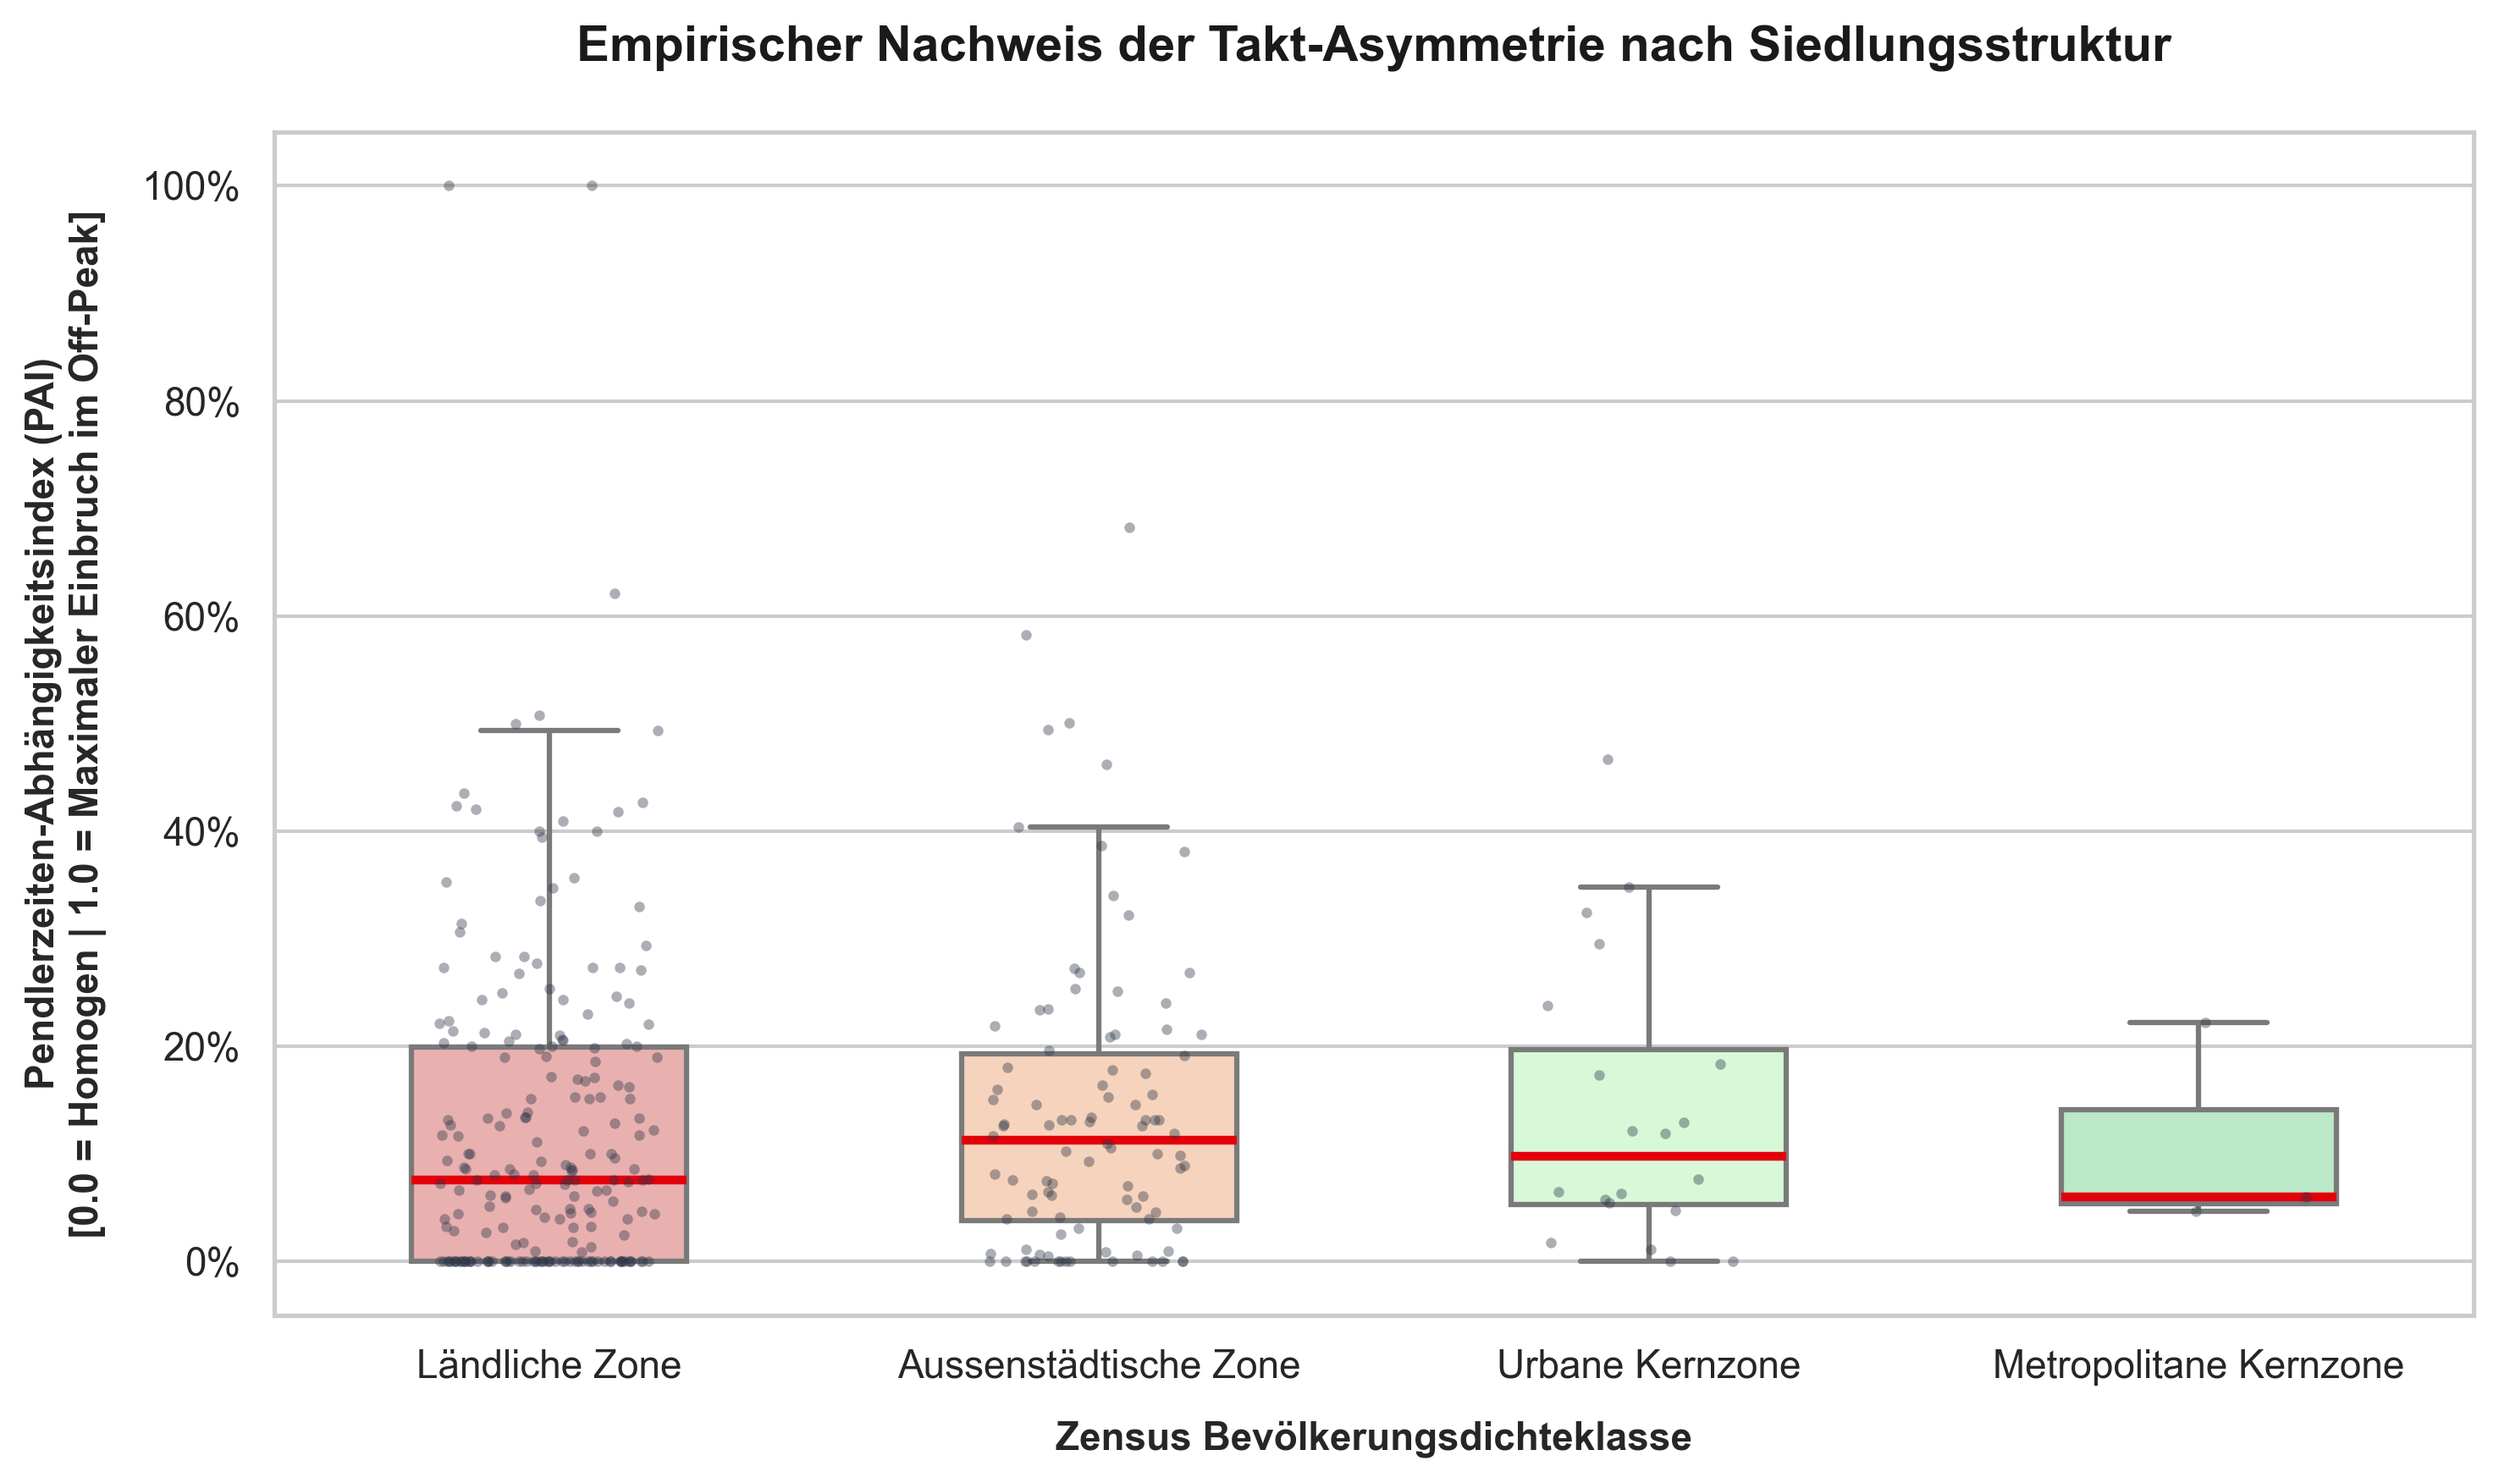
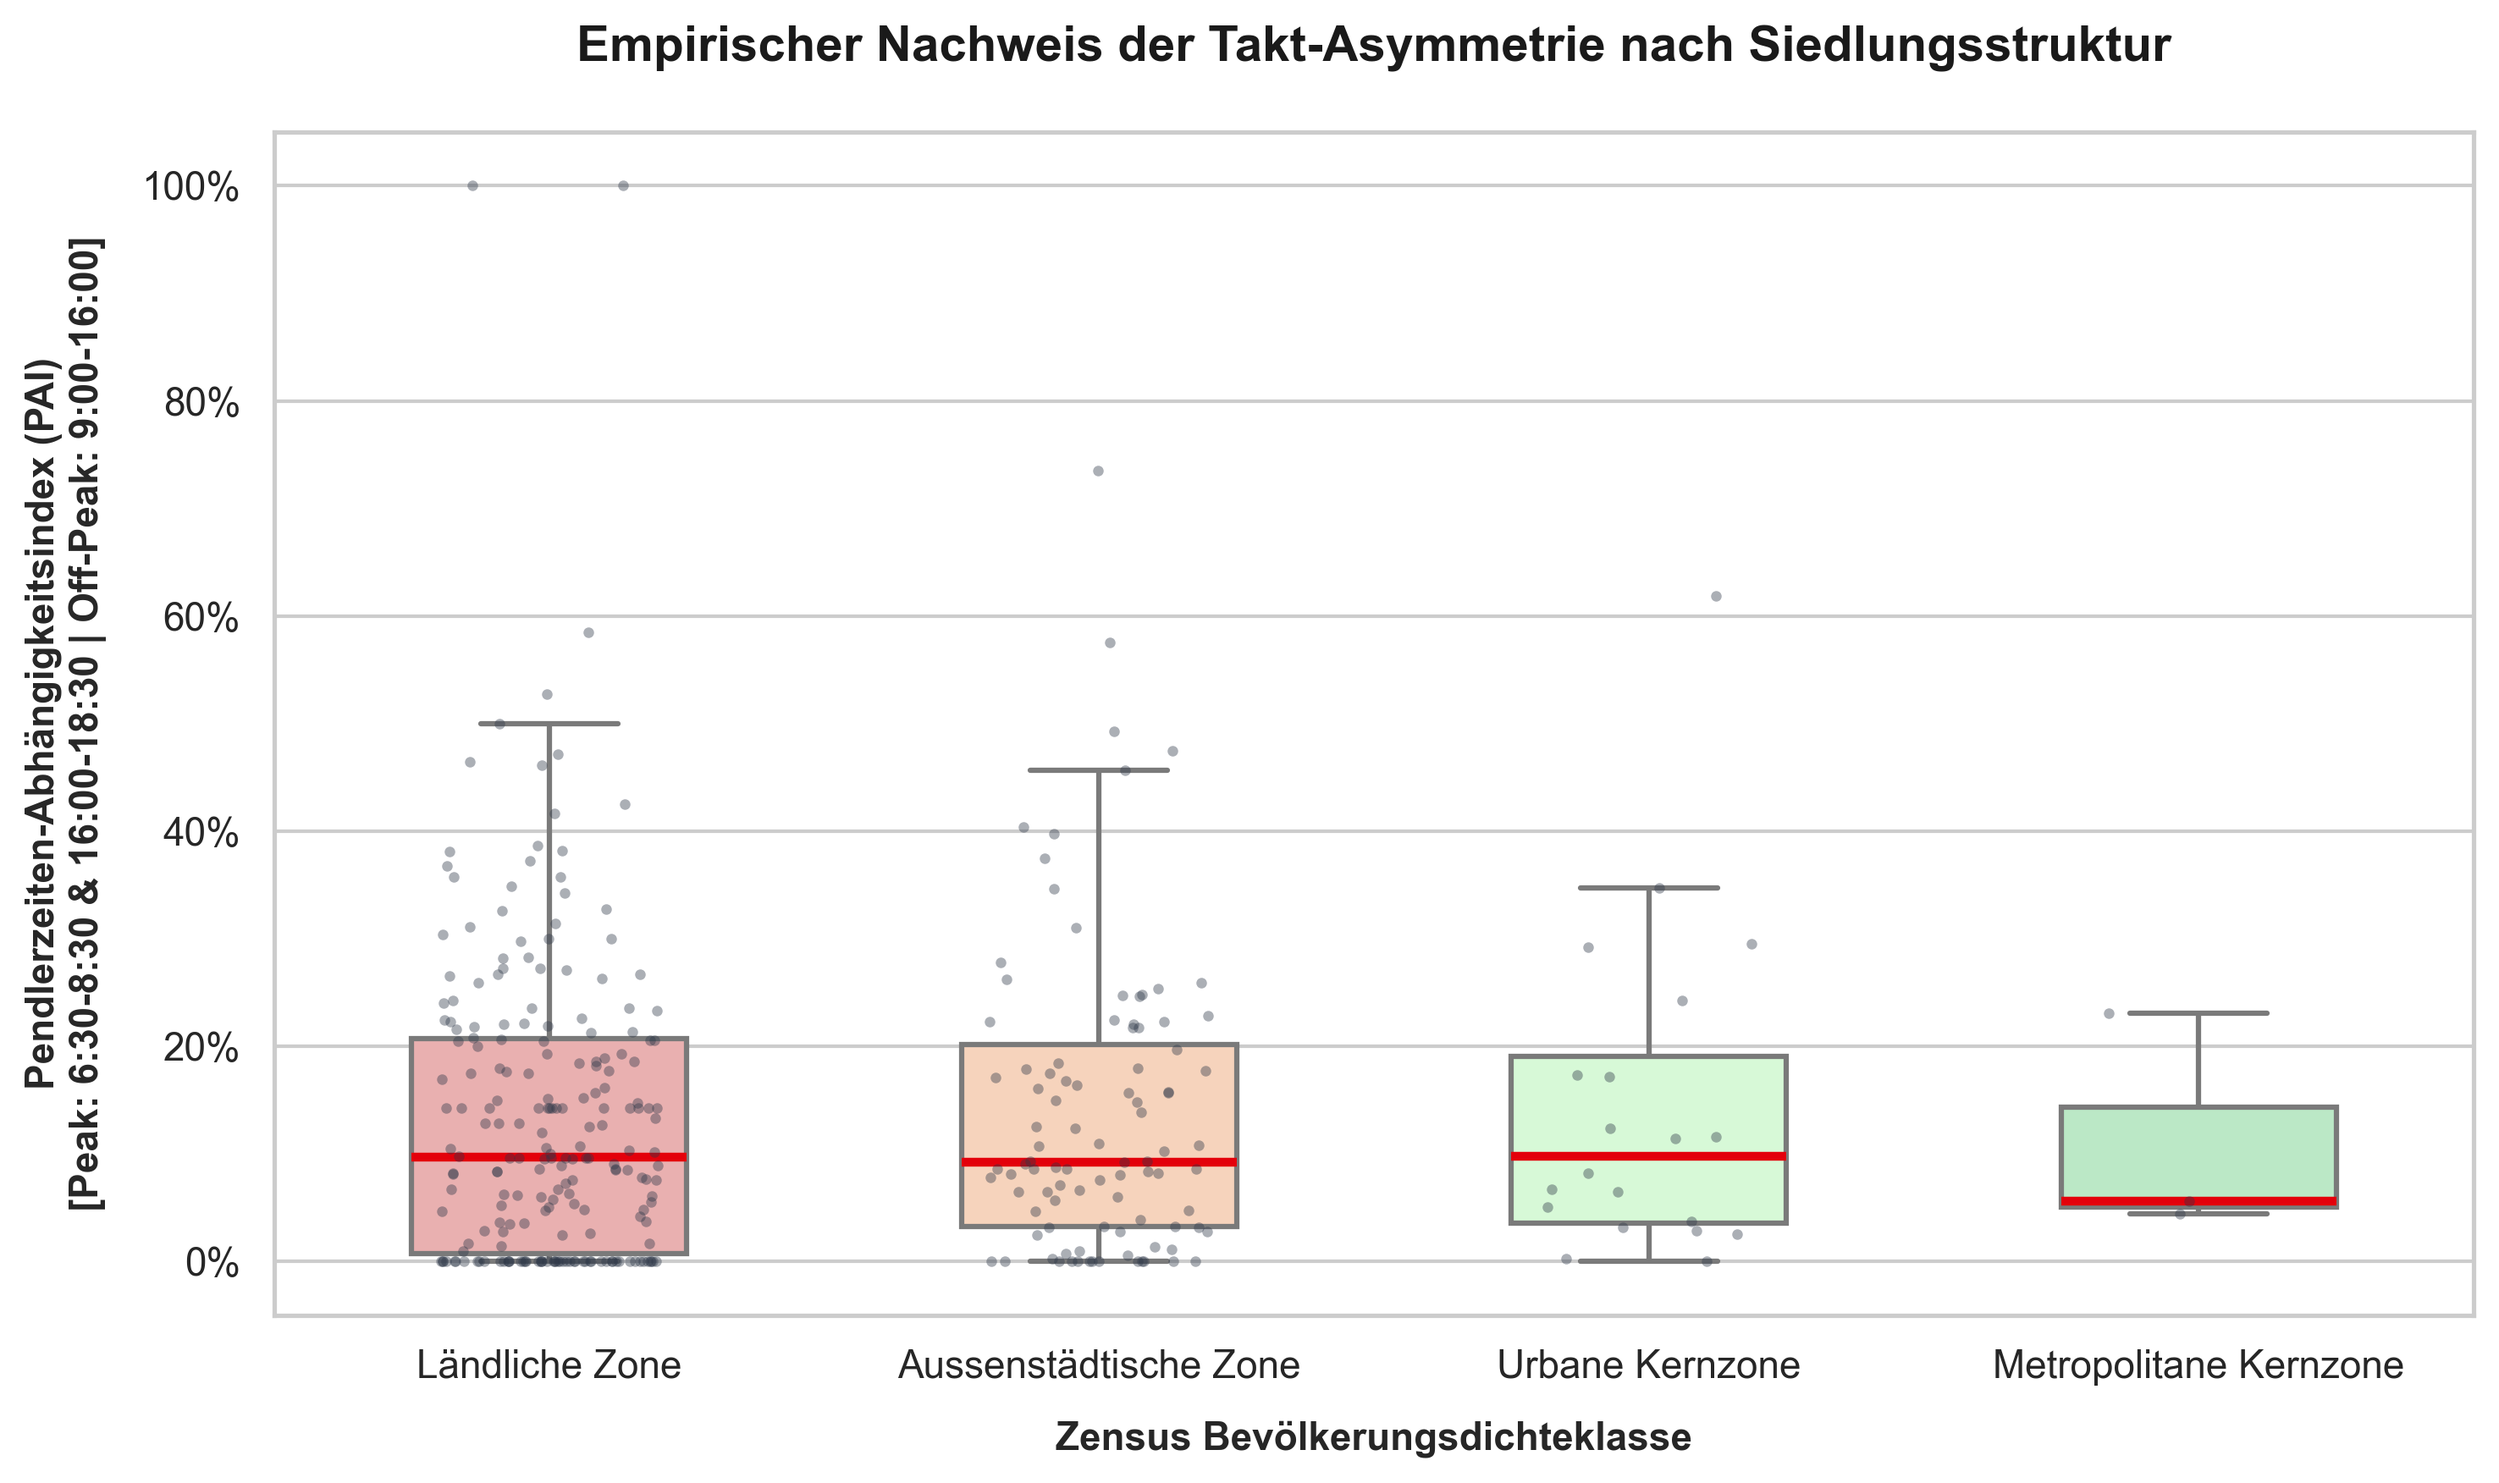
Fixed: Correct Times "Pendlerzeiten

diff --git a/backend/generate_presentation_chart.py b/backend/generate_presentation_chart.py
@@ -1,9 +1,11 @@
 import os
 import matplotlib.pyplot as plt
+import matplotlib.ticker as mtick
 import pandas as pd
 import seaborn as sns
 from dotenv import load_dotenv
 from sqlalchemy import create_engine, text
+from scipy.stats import kruskal
 
 # 1. Umgebung und Datenbankverbindung laden
 load_dotenv()
@@ -31,8 +33,7 @@ query = """
 with engine.connect() as conn:
     df = pd.read_sql_query(text(query), conn)
 
-# 3. Wissenschaftliche Sortierung der X-Achsen-Klassen festlegen
-# Passen Sie die Strings exakt an Ihre Bezeichnungen in der DB an
+# 3. Wissenschaftliche Sortierung (X-Achse) - Exakt wie in deiner DB hinterlegt
 klassen_reihenfolge = [
     "Ländliche Zone",
     "Aussenstädtische Zone",
@@ -40,17 +41,17 @@ klassen_reihenfolge = [
     "Metropolitane Kernzone",
 ]
 
-# Filtern, falls unerwartete Klassenbezeichnungen existieren
+# Filtern auf die korrekten Klassenbezeichnungen aus der DB
 df = df[df["bevoelkerungs_klasse"].isin(klassen_reihenfolge)]
 
 # 4. Styling für die wissenschaftliche Präsentation (Modern Minimalist)
 plt.figure(figsize=(10, 6), dpi=300)
 sns.set_theme(style="whitegrid")
 
-# KVV-Rot als Akzentfarbe für den Median, gedämpftes Blaugrau für die Boxen
+# Farbpalette für die Boxen
 palette = ["#f2a6a6", "#ffd1b3", "#d1ffd1", "#b3f0c2"]
 
-# Boxplot zeichnen (Verteilung)
+# Boxplot zeichnen (Statistische Verteilung)
 ax = sns.boxplot(
     x="bevoelkerungs_klasse",
     y="pai",
@@ -59,11 +60,11 @@ ax = sns.boxplot(
     width=0.5,
     palette=palette,
     linewidth=1.5,
-    fliersize=0,  # Ausreißer-Punkte ausblenden, da wir alle Einzelpunkte zeichnen
-    medianprops={"color": "#E3000B", "linewidth": 2.5},  # KVV-Rot für den Median
+    fliersize=0,
+    medianprops={"color": "#E3000B", "linewidth": 2.5},
 )
 
-# Stripplot überlagern (Zeigt jede einzelne Kachel als kleinen Punkt)
+# Stripplot überlagern
 sns.stripplot(
     x="bevoelkerungs_klasse",
     y="pai",
@@ -75,7 +76,7 @@ sns.stripplot(
     jitter=0.2,
 )
 
-# 5. Achsenbeschriftungen und typografische Hierarchie (Titillium Web-Ästhetik)
+# 5. Achsenbeschriftungen und Typografie
 plt.title(
     "Empirischer Nachweis der Takt-Asymmetrie nach Siedlungsstruktur",
     fontsize=14,
@@ -85,23 +86,49 @@ plt.title(
 )
 plt.xlabel("Zensus Bevölkerungsdichteklasse", fontsize=11, fontweight="semibold", labelpad=10)
 plt.ylabel(
-    "Pendlerzeiten-Abhängigkeitsindex (PAI)\n[0.0 = Homogen | 1.0 = Maximaler Einbruch im Off-Peak]",
+    "Pendlerzeiten-Abhängigkeitsindex (PAI)\n[Peak: 6:30-8:30 & 16:00-18:30 | Off-Peak: 9:00-16:00]",
     fontsize=11,
     fontweight="semibold",
     labelpad=10,
 )
 
-# Y-Achse auf Prozent-Skala anpassen (0% bis 100%)
+# Y-Achsen-Prozentformatierung ohne Warnungen
 ax.set_ylim(-0.05, 1.05)
-vals = ax.get_yticks()
-ax.set_yticklabels(["{:,.0%}".format(x) for x in vals])
+ax.yaxis.set_major_formatter(mtick.PercentFormatter(1.0))
 
-# Layout-Anpassung, um Abschneiden zu verhindern
 plt.tight_layout()
 
-# Grafik als PNG für die Präsentation abspeichern
+# Grafik speichern
 output_path = "PAI_Siedlungsstruktur_Beweis.png"
 plt.savefig(output_path, bbox_inches="tight")
-print(
-    f"📊 Präsentationsgrafik erfolgreich unter '{output_path}' generiert!"
-)
+print(f"📊 Präsentationsgrafik erfolgreich unter '{output_path}' generiert!")
+
+# ==============================================================================
+# --- STATISTISCHER SIGNIFIKANZTEST & LIVE-MEDIAN-BERECHNUNG ---
+# ==============================================================================
+print("\n--- Führe Kruskal-Wallis-Test mit korrigierten Fenstern durch ---")
+
+# Aufteilen der PAI-Werte nach den 4 Klassen
+g1 = df[df['bevoelkerungs_klasse'] == 'Ländliche Zone']['pai']
+g2 = df[df['bevoelkerungs_klasse'] == 'Aussenstädtische Zone']['pai']
+g3 = df[df['bevoelkerungs_klasse'] == 'Urbane Kernzone']['pai']
+g4 = df[df['bevoelkerungs_klasse'] == 'Metropolitane Kernzone']['pai']
+
+# Live-Ausgabe der exakten Gruppengrößen und der REALEN MEDIANE aus deiner DB
+print(f"Datensätze in 'Ländliche Zone': {len(g1)} | Echter Median (PAI): {g1.median():.4f} ({g1.median()*100:.2f}%)")
+print(f"Datensätze in 'Aussenstädtische Zone': {len(g2)} | Echter Median (PAI): {g2.median():.4f} ({g2.median()*100:.2f}%)")
+print(f"Datensätze in 'Urbane Kernzone': {len(g3)} | Echter Median (PAI): {g3.median():.4f} ({g3.median()*100:.2f}%)")
+print(f"Datensätze in 'Metropolitane Kernzone': {len(g4)} | Echter Median (PAI): {g4.median():.4f} ({g4.median()*100:.2f}%)")
+
+# Test berechnen
+if len(g1) > 0 and len(g2) > 0 and len(g3) > 0 and len(g4) > 0:
+    stat, p_val = kruskal(g1, g2, g3, g4)
+    print(f"\n-> Kruskal-Wallis-Statistik (H-Wert): {stat:.4f}")
+    print(f"-> p-Wert: {p_val:.6f}")
+    
+    if p_val < 0.05:
+        print("Ergebnis: STATISTISCH SIGNIFIKANT (p < 0.05). Die Verteilungen der Gruppen unterscheiden sich systematisch.")
+    else:
+        print("Ergebnis: NICHT SIGNIFIKANT (p >= 0.05). Es kann kein systematischer Unterschied mathematisch bewiesen werden.")
+else:
+    print("\n❌ Fehler: Eine oder mehrere Bevölkerungsklassen enthalten 0 Datensätze.")

diff --git a/backend/pipeline_pai.py b/backend/pipeline_pai.py
@@ -22,10 +22,9 @@ def calculate_pai_values():
     url = get_database_url()
     engine = create_engine(url)
 
-    print("Starte Berechnung des Pendlerzeiten-Abhängigkeitsindex (PAI)...")
+    print("Starte korrigierte Berechnung des PAI (6:30-8:30 & 16:00-18:30)...")
 
     with engine.begin() as conn:
-        # 1. Spalte hinzufügen, falls sie nicht existiert
         conn.execute(
             text(
                 """
@@ -35,7 +34,6 @@ def calculate_pai_values():
             )
         )
 
-        # 2. Alle relevanten Daten für die Berechnung laden
         result = conn.execute(
             text(
                 "SELECT kachel_id, takt_24h_mo FROM public.kachel_analytics;"
@@ -51,12 +49,11 @@ def calculate_pai_values():
                 continue
 
             try:
-                # String in Integer-Array parsen (24 Stunden)
                 takt = [int(x) for x in takt_string.split(",")]
                 if len(takt) != 24:
                     continue
 
-                # Peak-Stunden: Morgens (06, 07, 08) & Nachmittags (16, 17, 18)
+                # KORREKTUR: Peak-Stunden (6, 7, 8 und 16, 17, 18)
                 peak_hours = [
                     takt[6],
                     takt[7],
@@ -67,19 +64,24 @@ def calculate_pai_values():
                 ]
                 f_peak = sum(peak_hours) / len(peak_hours)
 
-                # Off-Peak-Stunden (Mittagstal): 10, 11, 12, 13, 14
-                off_peak_hours = [takt[10], takt[11], takt[12], takt[13], takt[14]]
+                # KORREKTUR: Off-Peak-Stunden (09:00 bis 16:00 Uhr -> Indizes 9 bis 15)
+                off_peak_hours = [
+                    takt[9],
+                    takt[10],
+                    takt[11],
+                    takt[12],
+                    takt[13],
+                    takt[14],
+                    takt[15],
+                ]
                 f_offpeak = sum(off_peak_hours) / len(off_peak_hours)
 
-                # PAI Formel: (F_peak - F_offpeak) / F_peak
                 if f_peak > 0:
                     pai = (f_peak - f_offpeak) / f_peak
-                    # PAI mathematisch auf den Bereich [0.0, 1.0] begrenzen
                     pai = max(0.0, min(1.0, pai))
                 else:
                     pai = 0.0
 
-                # Wert in Datenbank schreiben
                 conn.execute(
                     text(
                         "UPDATE public.kachel_analytics SET pai = :pai WHERE kachel_id = :id"
@@ -93,7 +95,7 @@ def calculate_pai_values():
                 continue
 
         print(
-            f"Erfolgreich beendet! {updated_count} Kacheln wurden mit PAI-Werten aktualisiert."
+            f"Erfolgreich beendet! {updated_count} Kacheln wurden mit den neuen PAI-Werten aktualisiert."
         )
 
 
